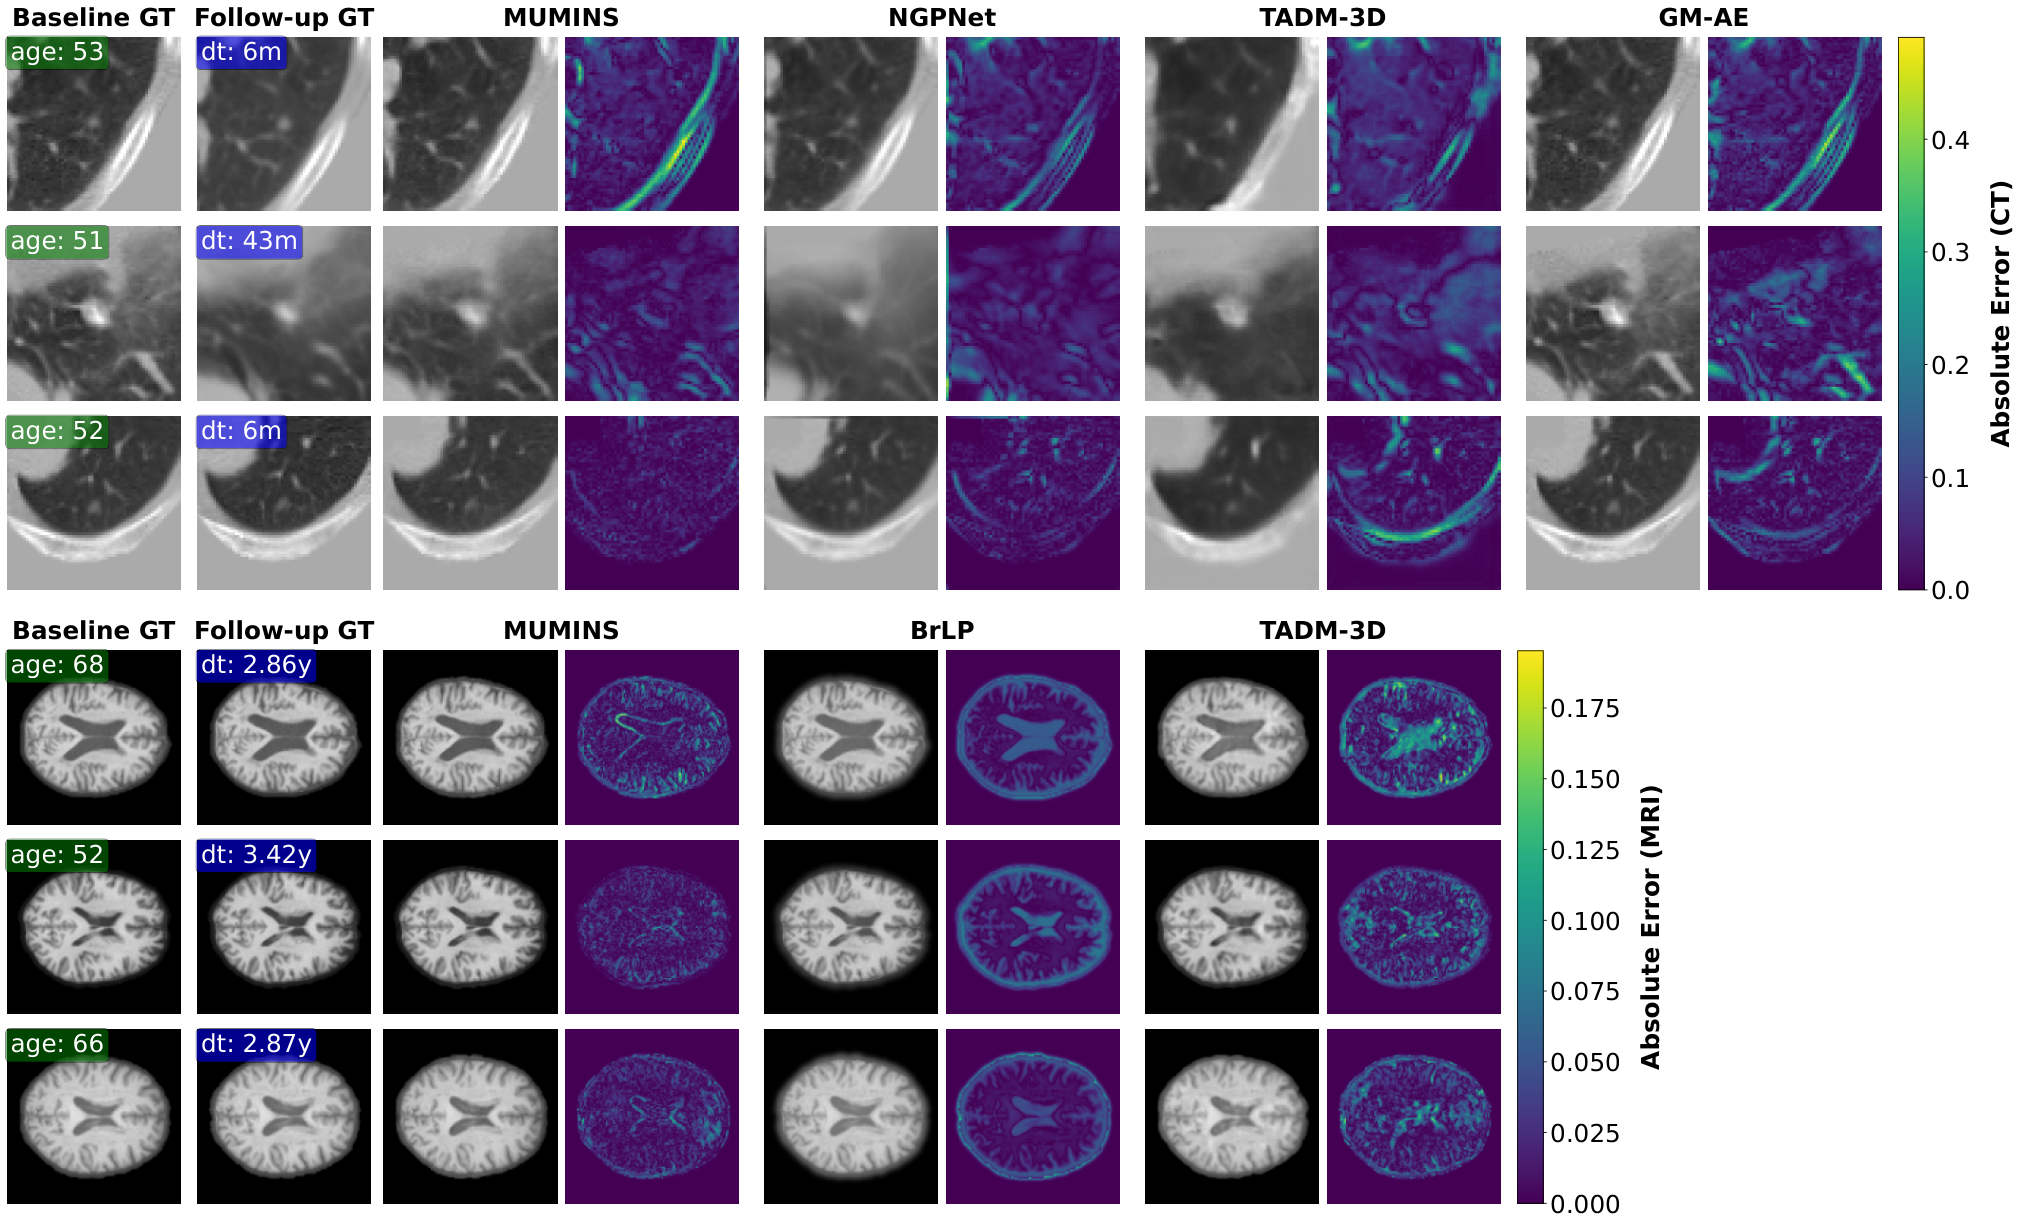
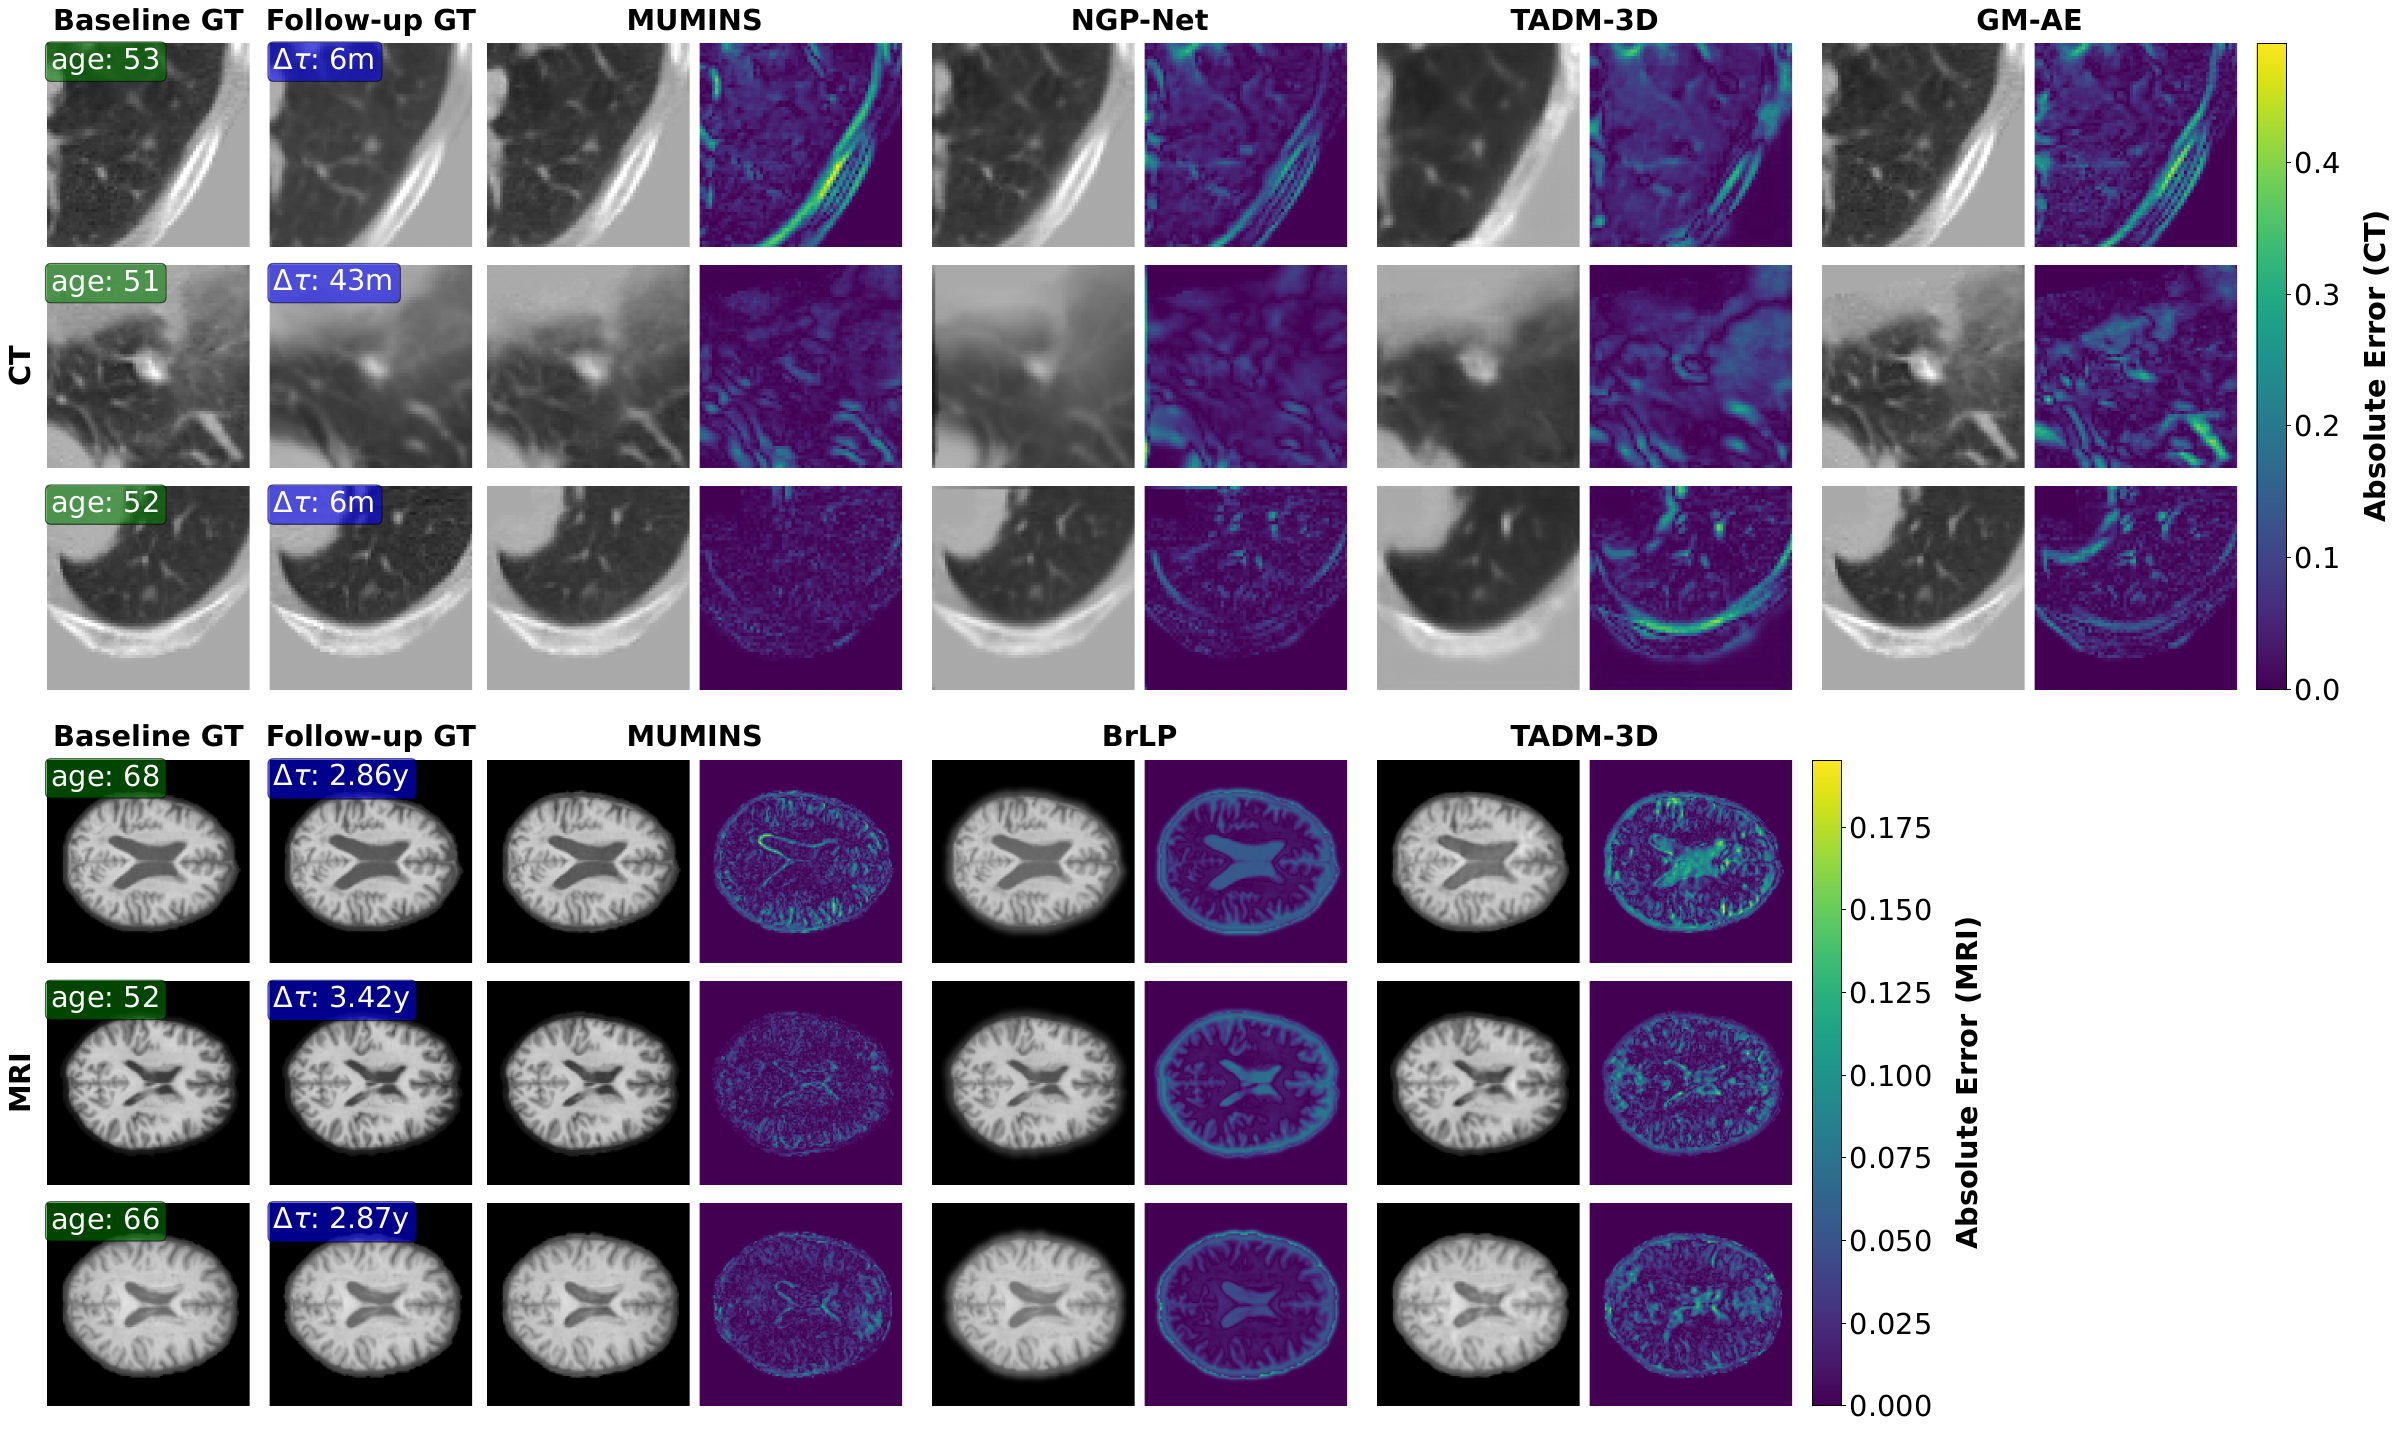
Update MUMINS comparison figure and viewer layout

diff --git a/publications/mumins.html b/publications/mumins.html
@@ -11,7 +11,7 @@
 <link href="https://fonts.googleapis.com/css2?family=Source+Serif+4:ital,opsz,wght@0,8..60,400;0,8..60,500;0,8..60,600;1,8..60,400;1,8..60,500&family=IBM+Plex+Sans:wght@400;500;600&family=IBM+Plex+Mono:wght@400;500&display=swap" rel="stylesheet">
 <link rel="stylesheet" href="../styles.css">
 <script src="../site.js" defer></script>
-<link rel="stylesheet" href="mumins.css?v=6">
+<link rel="stylesheet" href="mumins.css?v=7">
 <script src="mumins.js" defer></script>
 <script src="../figs/mumins/viewer/viewer-data.js" defer></script>
 <script src="mumins-viewer.js?v=3" defer></script>
@@ -232,8 +232,8 @@
       <h2>From pulmonary nodules to brain MRI</h2>
       <p>The same architecture is trained separately on two longitudinal datasets: PNG for pulmonary nodule progression in chest CT, and OASIS-3 for brain MRI progression. Each dataset has its own trained model; no organ-specific architectural components are introduced.</p>
       <figure class="pub-page-figure">
-        <a href="../figs/mumins/comparison.png" target="_blank" rel="noopener" aria-label="Open synthesis comparison figure at full resolution">
-          <img src="../figs/mumins/comparison.png" width="2021" height="1225" alt="Qualitative comparison of baseline, true follow-up, MUMINS, and domain-specific methods, with absolute error maps. Three lung CT examples are above three brain MRI examples." loading="lazy">
+        <a href="../figs/mumins/comparison.png?v=2" target="_blank" rel="noopener" aria-label="Open synthesis comparison figure at full resolution">
+          <img src="../figs/mumins/comparison.png?v=2" width="2400" height="1432" alt="Qualitative comparison of baseline, true follow-up, MUMINS, and domain-specific methods, with absolute error maps. Three lung CT examples are above three brain MRI examples." loading="lazy">
         </a>
         <figcaption>Follow-up synthesis on lung CT (top) and brain MRI (bottom), with absolute error maps. MUMINS uses Δb = 0. Figure 2 from the <a href="https://arxiv.org/html/2609.17169v1#S4.F2" target="_blank" rel="noopener">preprint</a>. Open the figure to enlarge.</figcaption>
       </figure>

diff --git a/publications/mumins.css b/publications/mumins.css
@@ -27,6 +27,8 @@
   font-size:13px; color:var(--ink-soft); line-height:1.7;
 }
 #citation-status{ display:block; min-height:24px; margin-top:8px; }
+/* The interactive section stays visible instead of using the reveal animation. */
+.mumins-examples .eyebrow::before{ transform:scaleX(1); }
 .mumins-examples p, .mumins-examples .mumins-note{
   font-size:16px; line-height:1.8;
   text-align:left; text-justify:auto; hyphens:none;
@@ -43,6 +45,11 @@
   scroll-margin-top:12px;
   overflow:hidden; background:#101a22; color:var(--viewer-ink);
 }
+/* Two panels match the CT viewer's five columns, including borders and gaps.
+   The minimum follows the CT grid's 640px scrolling width on small screens. */
+.mumins-prediction-viewer{ width:max(257.4px, calc(40% + 0.6px)); max-width:100%; }
+.mumins-prediction-viewer .mumins-viewer-toolbar{ display:flex; flex-wrap:wrap; }
+.mumins-prediction-viewer .mumins-case-summary{ width:100%; }
 .mumins-viewer-toolbar{
   display:grid; grid-template-columns:1fr auto; align-items:center;
   gap:12px; padding:14px 12px; border-bottom:1px solid #2c404a;
